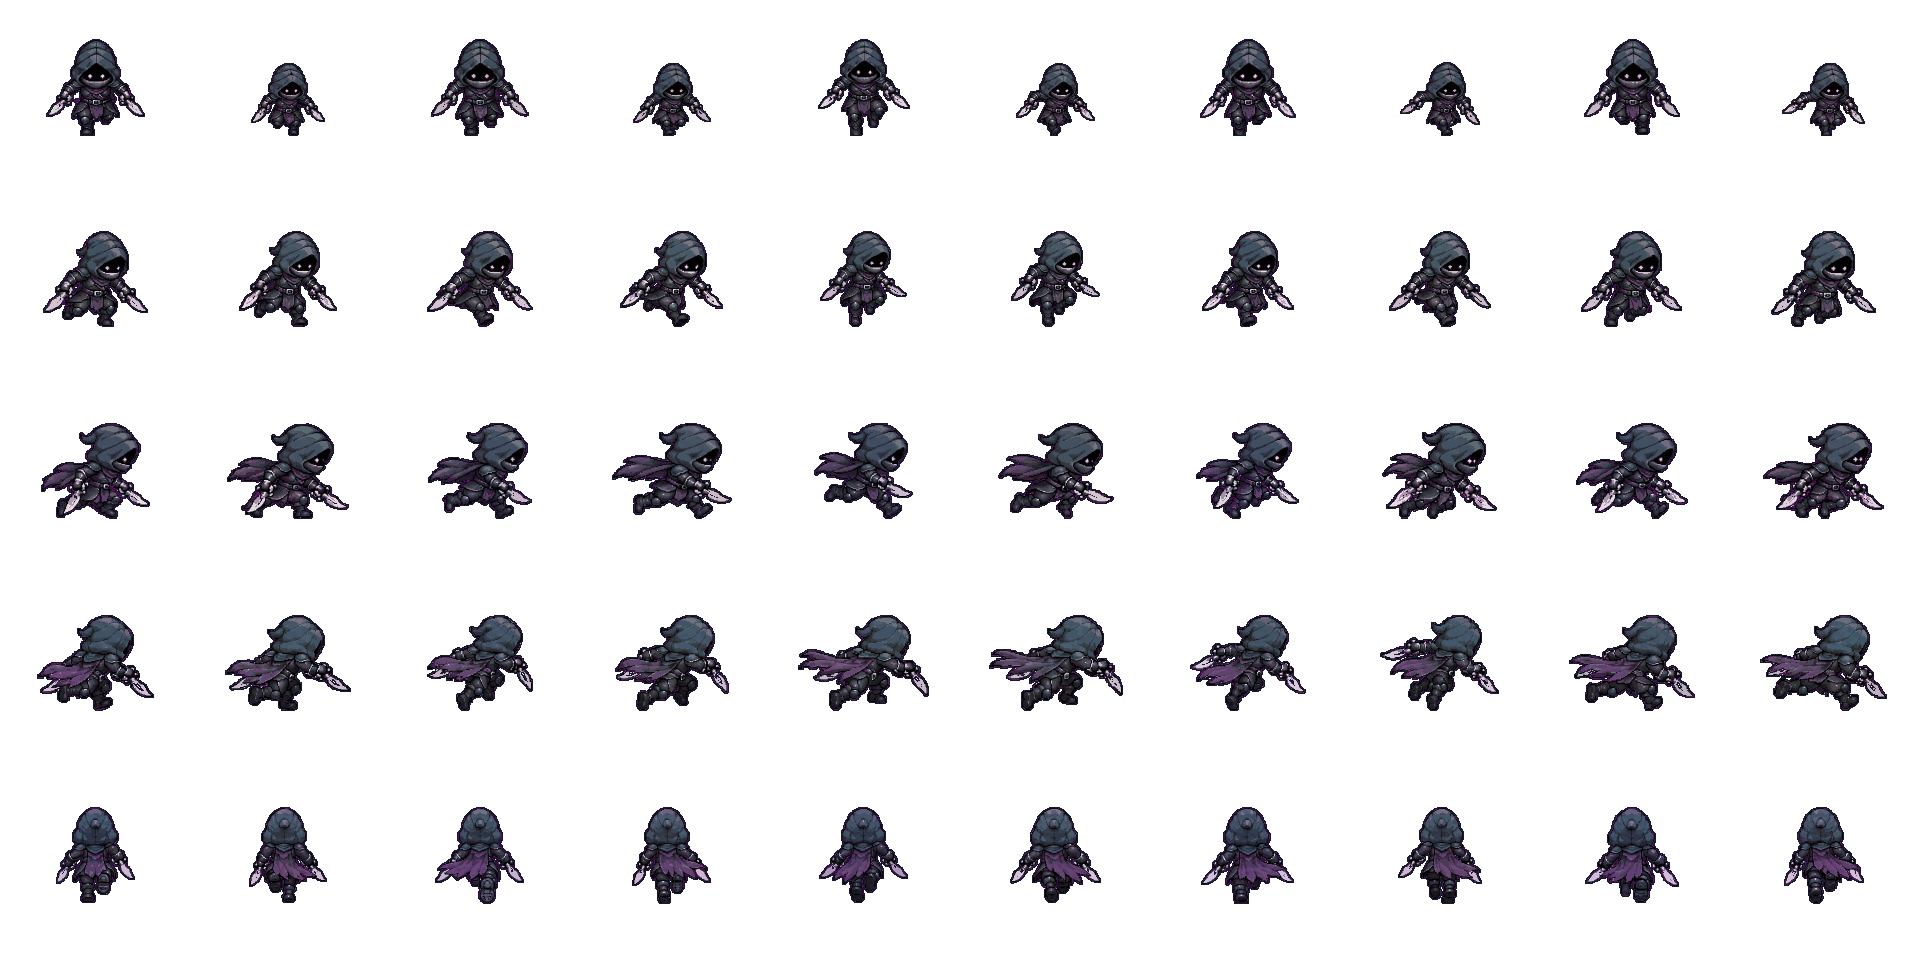
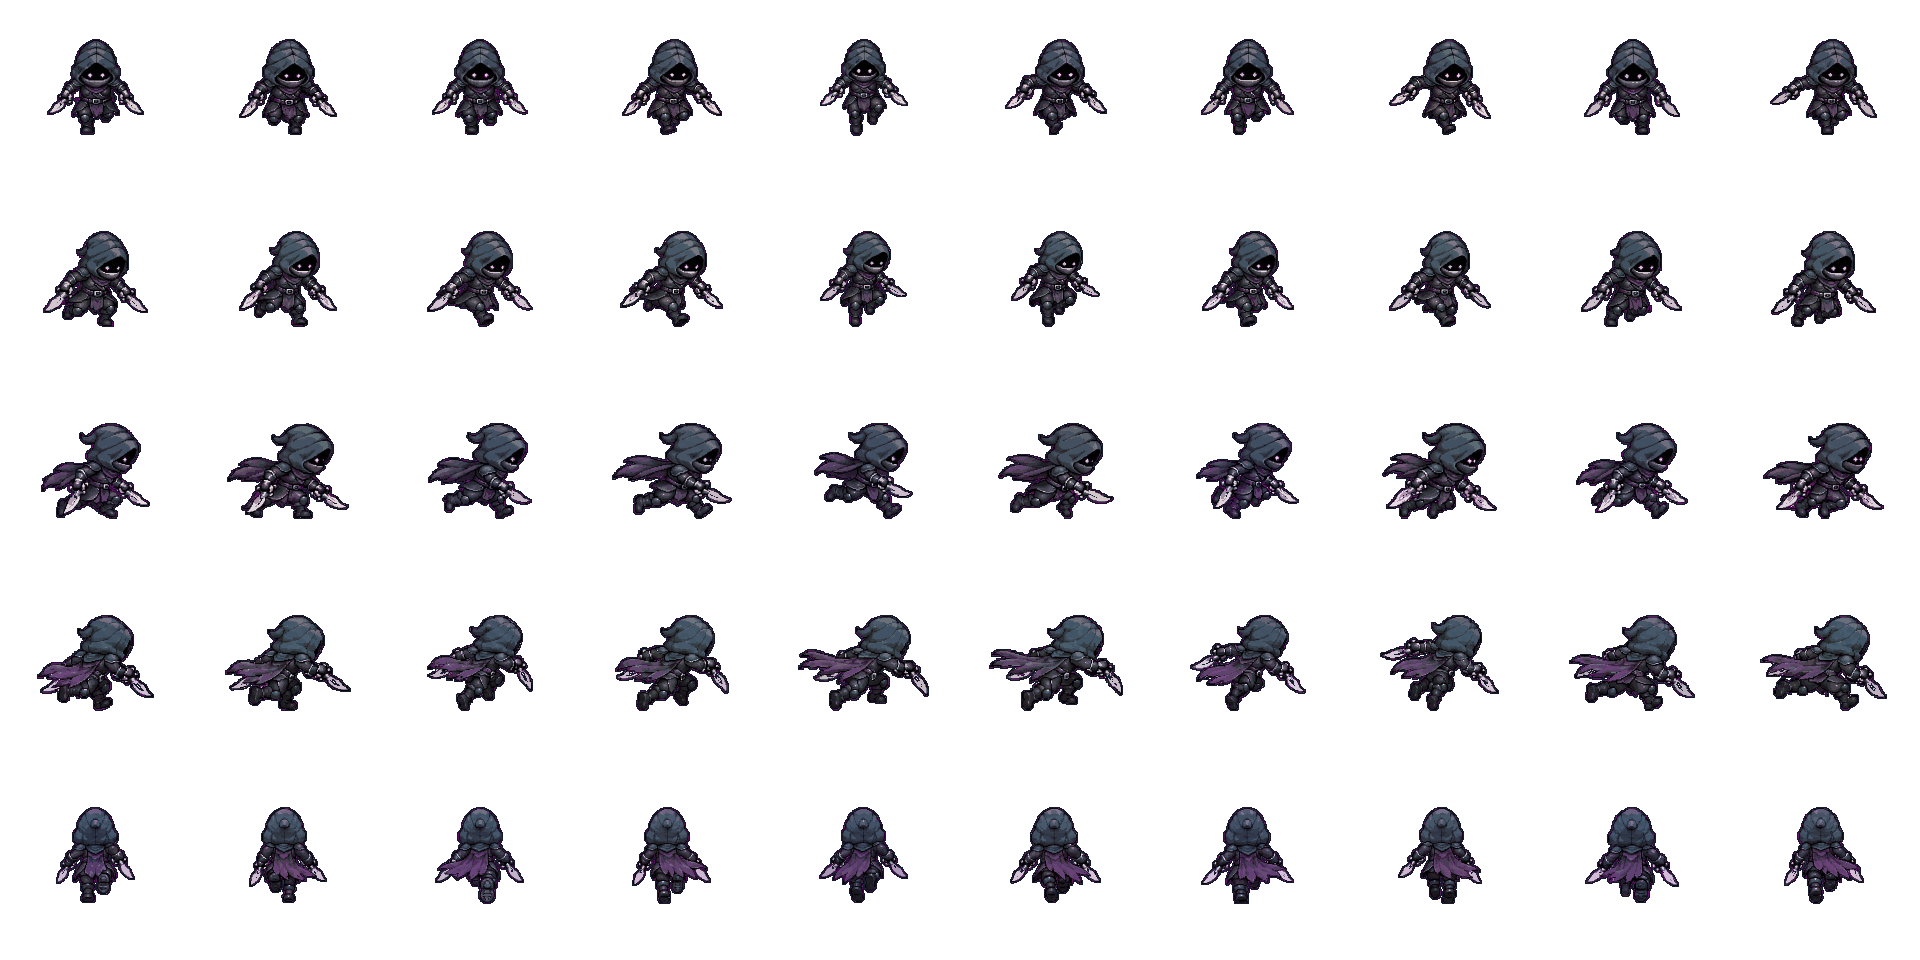
fix: stabilize assassin movement and idle

diff --git a/packages/renderer/test/actor-motion.test.ts b/packages/renderer/test/actor-motion.test.ts
@@ -153,6 +153,7 @@ describe("actor animation art", () => {
     expect(view.directionalFacing).toEqual({ x: 1, z: 0 });
     expect(view.renderHeight).toBeCloseTo(2.6 * 0.9);
     expect(view.frameDurationMs).toBe(62.5);
+    expect(playerActorView(bonus, 0, "idle").frameDurationMs).toBeCloseTo(1_000 / 3);
   });
 
   it("keeps Iron Guard's authored strip after its cast action has ended", () => {

diff --git a/packages/renderer/src/hd2d/game-renderer.ts b/packages/renderer/src/hd2d/game-renderer.ts
@@ -533,7 +533,7 @@ export function playerActorView(
         : assassin && motion === "run"
           ? 1_000 / 16
           : assassin && motion === "idle"
-            ? 1_000 / 10
+            ? 1_000 / 3
             : ACTOR_FRAME_MS[motion],
     animationLoop: clouded || player.guarding === true || motion !== "attack",
     opacity:

diff --git a/apps/lab/scripts/animation-sheet.py b/apps/lab/scripts/animation-sheet.py
@@ -12,17 +12,36 @@ from pathlib import Path
 
 from PIL import Image
 
-from sprite import couleur_de_fond, detourer, durcir, entourer, quantifier, recadrer, reduire
+from sprite import couleur_de_fond, detourer, durcir, entourer, quantifier, reduire
 
 
-def normalize_frame(
+def crop_visible(image, margin=2, alpha_threshold=128):
+    """Crop from the pixels that survive the hard-alpha pass.
+
+    Background removal can leave sub-threshold alpha across an otherwise empty part of a cell.
+    Measuring that residue made the real character smaller before `durcir` removed it, so key poses
+    and generated in-betweens could alternate between two apparent scales.
+    """
+    alpha = image.getchannel("A").point(
+        lambda value: 255 if value >= alpha_threshold else 0
+    )
+    box = alpha.getbbox()
+    if not box:
+        return image
+    x0, y0, x1, y1 = box
+    return image.crop(
+        (
+            max(0, x0 - margin),
+            max(0, y0 - margin),
+            min(image.width, x1 + margin),
+            min(image.height, y1 + margin),
+        )
+    )
+
+
+def prepare_frame(
     source,
-    content_height,
-    frame_size,
-    colors,
-    rotation,
     precutout,
-    foot_offset,
     background_tolerance,
     pocket_tolerance,
 ):
@@ -36,7 +55,18 @@ def normalize_frame(
         from sprite import vider_poches
 
         cutout = vider_poches(cutout, background, tolerance=pocket_tolerance)
-    sprite = entourer(quantifier(durcir(reduire(recadrer(cutout), content_height)), colors))
+    return crop_visible(cutout)
+
+
+def normalize_frame(
+    source,
+    content_height,
+    frame_size,
+    colors,
+    rotation,
+    foot_offset,
+):
+    sprite = entourer(quantifier(durcir(reduire(source, content_height)), colors))
     if rotation:
         sprite = sprite.rotate(rotation, resample=Image.Resampling.NEAREST, expand=True)
     if sprite.width > frame_size or sprite.height > frame_size:
@@ -80,6 +110,16 @@ def main():
         ),
     )
     parser.add_argument(
+        "--row-gutter-top",
+        type=int,
+        help="Override --row-gutter for only the top edge of the selected row.",
+    )
+    parser.add_argument(
+        "--row-gutter-bottom",
+        type=int,
+        help="Override --row-gutter for only the bottom edge of the selected row.",
+    )
+    parser.add_argument(
         "--sequence",
         help="Comma-separated source-frame indices; for example 0,1,2,1 makes a four-frame loop from three generated poses.",
     )
@@ -115,8 +155,14 @@ def main():
         raise SystemExit("--frames must be positive")
     if args.rows <= 0 or not 0 <= args.row < args.rows:
         raise SystemExit("--row must select one of the positive --rows")
-    if args.row_gutter < 0:
-        raise SystemExit("--row-gutter must be non-negative")
+    row_gutter_top = (
+        args.row_gutter if args.row_gutter_top is None else args.row_gutter_top
+    )
+    row_gutter_bottom = (
+        args.row_gutter if args.row_gutter_bottom is None else args.row_gutter_bottom
+    )
+    if min(args.row_gutter, row_gutter_top, row_gutter_bottom) < 0:
+        raise SystemExit("row gutters must be non-negative")
 
     def select_row(path):
         image = Image.open(path).convert("RGBA")
@@ -124,15 +170,15 @@ def main():
         if usable_height <= 0:
             raise SystemExit(f"{path} is too short for --rows")
         source_row_height = usable_height // args.rows
-        if args.row_gutter * 2 >= source_row_height:
-            raise SystemExit("--row-gutter must leave some pixels in the selected row")
+        if row_gutter_top + row_gutter_bottom >= source_row_height:
+            raise SystemExit("row gutters must leave some pixels in the selected row")
         row_top = args.row * source_row_height
         return image.crop(
             (
                 0,
-                row_top + args.row_gutter,
+                row_top + row_gutter_top,
                 image.width,
-                row_top + source_row_height - args.row_gutter,
+                row_top + source_row_height - row_gutter_bottom,
             )
         )
 
@@ -182,15 +228,17 @@ def main():
             )
             normalized.append(
                 normalize_frame(
-                    cell,
+                    prepare_frame(
+                        cell,
+                        args.precutout,
+                        args.background_tolerance,
+                        args.pocket_tolerance,
+                    ),
                     args.content_height,
                     args.frame_size,
                     args.colors,
                     args.rotate,
-                    args.precutout,
                     args.foot_offset,
-                    args.background_tolerance,
-                    args.pocket_tolerance,
                 )
             )
         return normalized

diff --git a/studio/pixel-art/assassin.md b/studio/pixel-art/assassin.md
@@ -51,9 +51,14 @@ matching `*-inbetweens-chroma.png` files.
 ## Normalization and runtime
 
 `apps/lab/scripts/animation-sheet.py` selects each row with an 8 px source gutter (28 px for the
-poison row, whose preceding smoke crossed the nominal boundary), removes the magenta background,
+poison row, whose preceding smoke crossed the nominal boundary). The front run row uses a 32 px
+top-only gutter so the preceding idle row cannot contaminate its generated in-betweens. It removes
+the magenta background,
 interleaves five keys and five transitions, and applies hard alpha, 24 colours, the project outline
-and a 56 px foot offset. Sprites are normalized to 96 px content height in 192 px cells.
+and a 56 px foot offset. Its crop measures only pixels that survive the hard-alpha pass: faint
+background-removal residue therefore cannot shrink an otherwise valid pose. The corrected front run
+row targets the same 96 px content height as the four unchanged directional rows. Frames remain in
+192 px cells.
 `stack-animation-strips.py` stacks the five camera rows.
 
 The eight 1920x960 atlases each contain ten phases by five authored angles, for 400 processed source
@@ -69,5 +74,6 @@ cells in total:
 - `packages/renderer/src/assets/bonus/assassin/death.png`
 
 An automated adjacent-frame comparison found no identical neighbours in any row. The renderer runs
-the ten-frame locomotion cycle at 16 fps and maps every skill's authoritative contact to its own
-impact pose; the server still decides movement, damage, stealth, poison and targets.
+the ten-frame locomotion cycle at 16 fps, the guarded-breathing idle at 3 fps, and maps every skill's
+authoritative contact to its own impact pose; the server still decides movement, damage, stealth,
+poison and targets.
